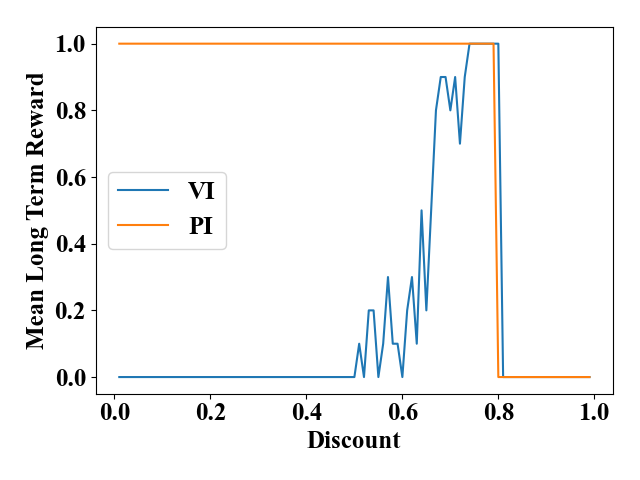
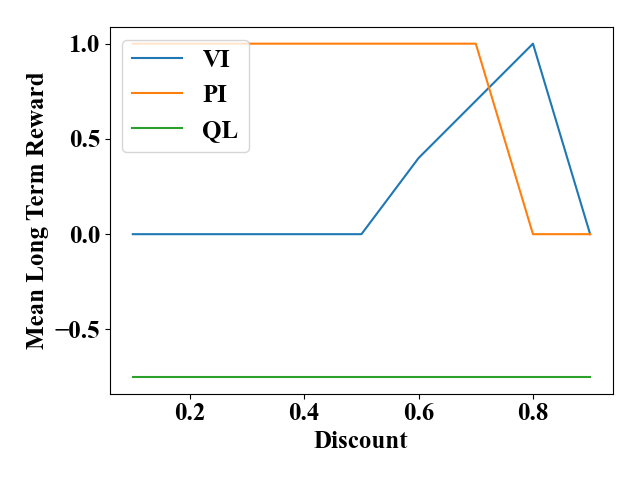
Establish a QL baseline

diff --git a/a4/tune_lake.py b/a4/tune_lake.py
@@ -14,7 +14,7 @@ EPSILON = 0.0000001
 R_HOLE = -0.75
 np.random.seed(11)
 
-def plot_stuff(x, y1, y2, y1_label, y2_label, xlabel, ylabel, name):
+def plot_stuff(x, y1, y2, y3, y1_label, y2_label, y3_label, xlabel, ylabel, name):
     plt.clf()
     font = { 'family': 'Times New Roman', 'size': 18 }
     plt.rc('font', **font)
@@ -22,6 +22,7 @@ def plot_stuff(x, y1, y2, y1_label, y2_label, xlabel, ylabel, name):
     plt.ylabel(ylabel)
     plt.plot(x, y1, label=y1_label)
     plt.plot(x, y2, label=y2_label)
+    plt.plot(x, y3, label=y3_label)
     plt.legend()
     plt.tight_layout()
     plt.savefig(f"{name}.png")
@@ -90,12 +91,15 @@ mdptoolbox.util.check(P, R)
 print('P.shape', P.shape)
 print('R.shape', R.shape)
 
-n_vals = 99
-results = np.zeros((n_vals, 3))
+#n_vals = 99
+n_vals = 9
+
+results = np.zeros((n_vals, 4))
 n_walks = 10
 for i in range(n_vals):
 
-    D = (i + 1) / 100
+#    D = (i + 1) / 100
+    D = (i + 1) / 10
 
     print('================ VI,', 'discount =', D)
     vi = mdptoolbox.mdp.ValueIteration(P, R, D, epsilon=EPSILON)
@@ -107,26 +111,37 @@ for i in range(n_vals):
 #    pi.setVerbose()
     pi.run()
 
+    print('================ QL,', 'discount =', D)
+    ql = mdptoolbox.mdp.QLearning(P, R, D)
+#    ql.setVerbose()
+    ql.run()
+
     print('================ walking,', 'discount =', D)
     vi_rewards = np.zeros(n_walks)
     pi_rewards = np.zeros(n_walks)
+    ql_rewards = np.zeros(n_walks)
     for j in range(n_walks):
         vi_rewards[j] = walk(P, R, vi.policy)
         pi_rewards[j] = walk(P, R, pi.policy)
+        ql_rewards[j] = walk(P, R, ql.policy)
 
     vi_mean_reward = np.mean(vi_rewards)
     pi_mean_reward = np.mean(pi_rewards)
+    ql_mean_reward = np.mean(ql_rewards)
 
     results[i,0] = D
     results[i,1] = vi_mean_reward
     results[i,2] = pi_mean_reward
+    results[i,3] = ql_mean_reward
 
 plot_stuff(
     results[:,0],
     results[:,1],
     results[:,2],
+    results[:,3],
     'VI',
     'PI',
+    'QL',
     'Discount',
     'Mean Long Term Reward',
     'lake_walk'
@@ -134,8 +149,10 @@ plot_stuff(
 
 best_vi_reward = -np.inf
 best_pi_reward = -np.inf
+best_ql_reward = -np.inf
 best_vi_discount = None
 best_pi_discount = None
+best_ql_discount = None
 for result in results:
     if result[1] > best_vi_reward:
         best_vi_reward = result[1]
@@ -143,7 +160,12 @@ for result in results:
     if result[2] > best_pi_reward:
         best_pi_reward = result[2]
         best_pi_discount = result[0]
+    if result[3] > best_ql_reward:
+        best_ql_reward = result[2]
+        best_ql_discount = result[0]
 print('best_vi_reward', best_vi_reward)
 print('best_pi_reward', best_pi_reward)
+print('best_ql_reward', best_ql_reward)
 print('best_vi_discount', best_vi_discount)
 print('best_pi_discount', best_pi_discount)
+print('best_ql_discount', best_ql_discount)

diff --git a/a4/explore.py b/a4/explore.py
@@ -1,0 +1,18 @@
+#!/usr/bin/env python
+
+# https://www.slideshare.net/DongMinLee32/exploration-strategies-in-reinforcement-learning-179779846
+# https://medium.com/sequential-learning/optimistic-q-learning-b9304d079e11
+
+import math
+import numpy as np
+import matplotlib.pyplot as plt
+
+def f(x):
+    return (1 - (1 / math.log(x + 2)))
+
+x = np.arange(10000)
+y = np.vectorize(f)(x)
+print(y[-1])
+
+plt.plot(x, y)
+plt.show()
